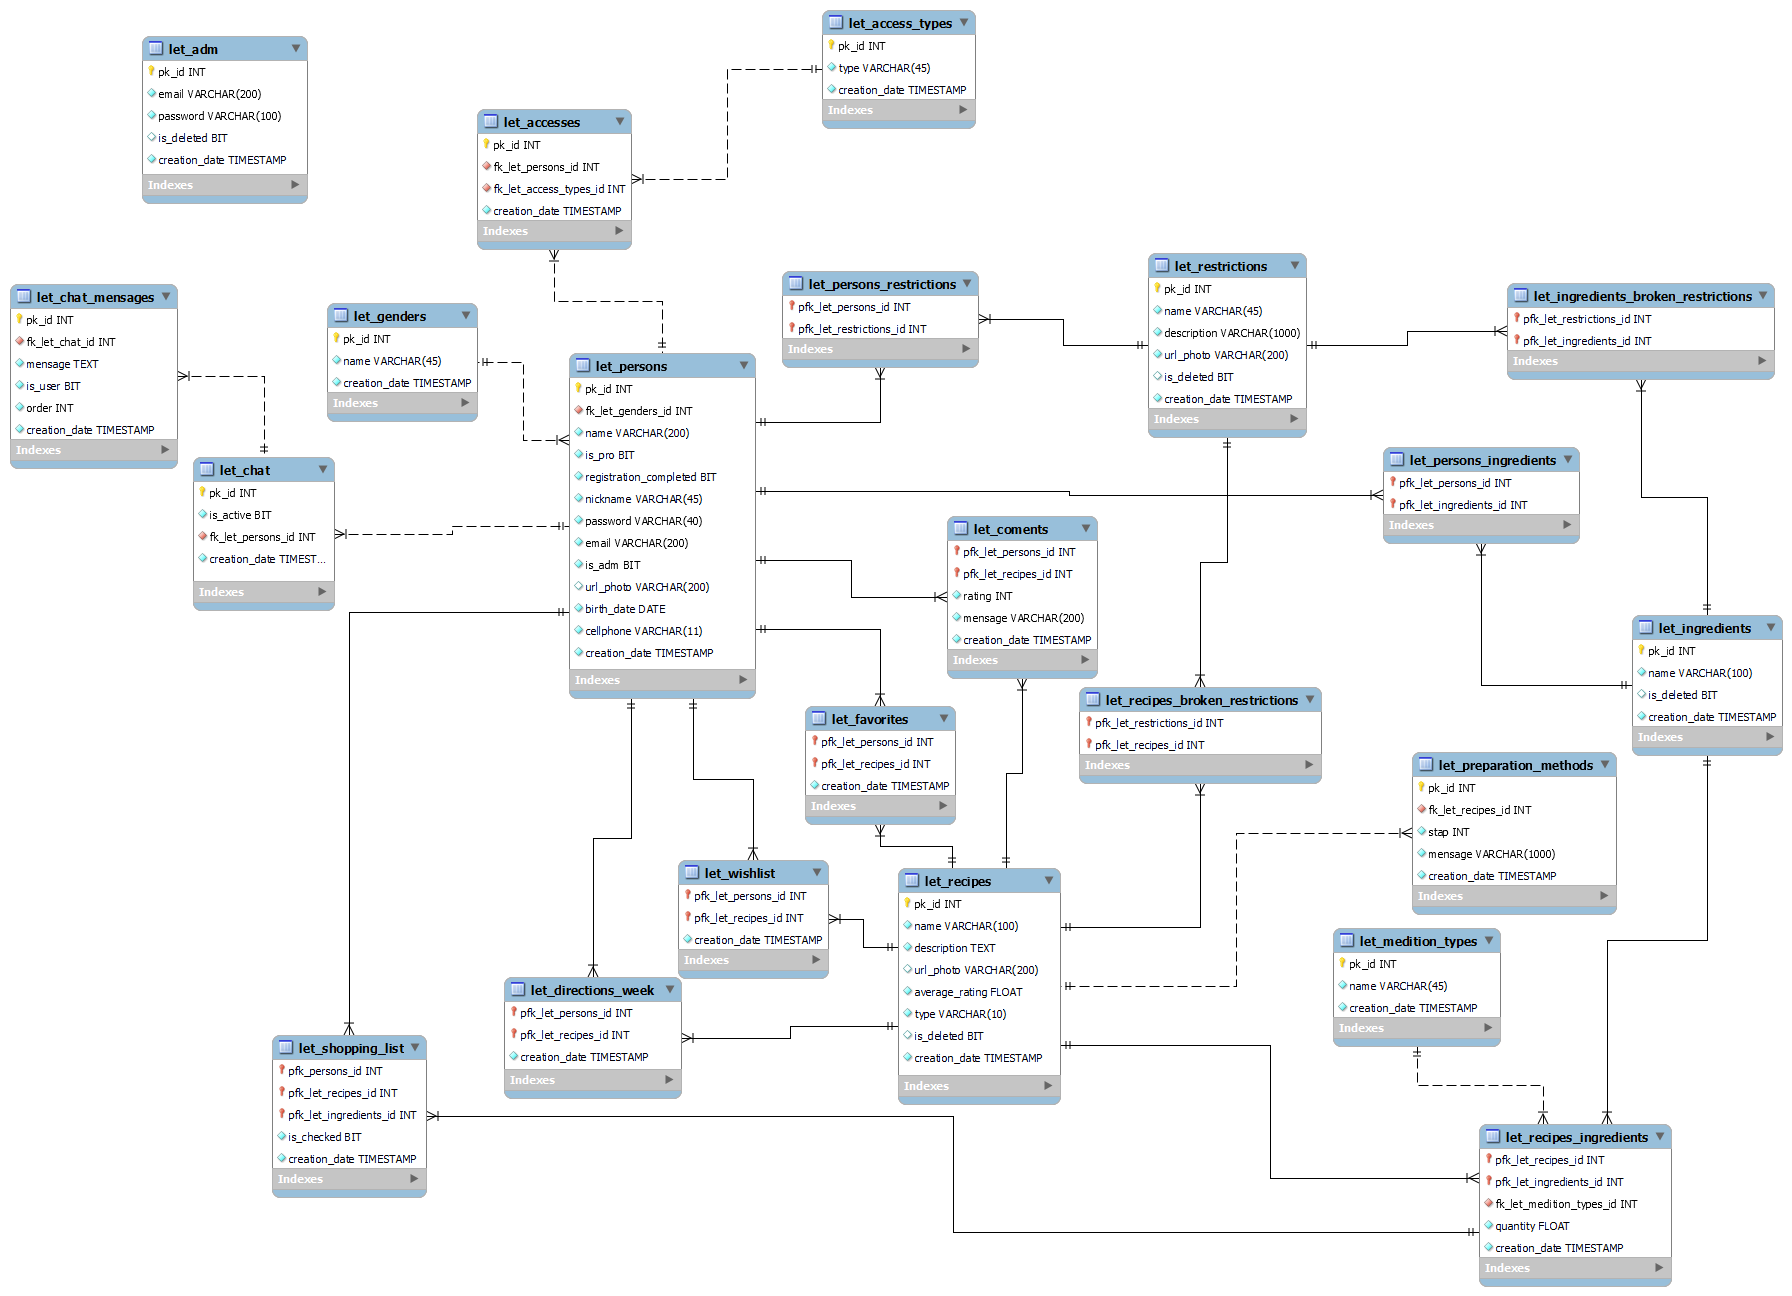
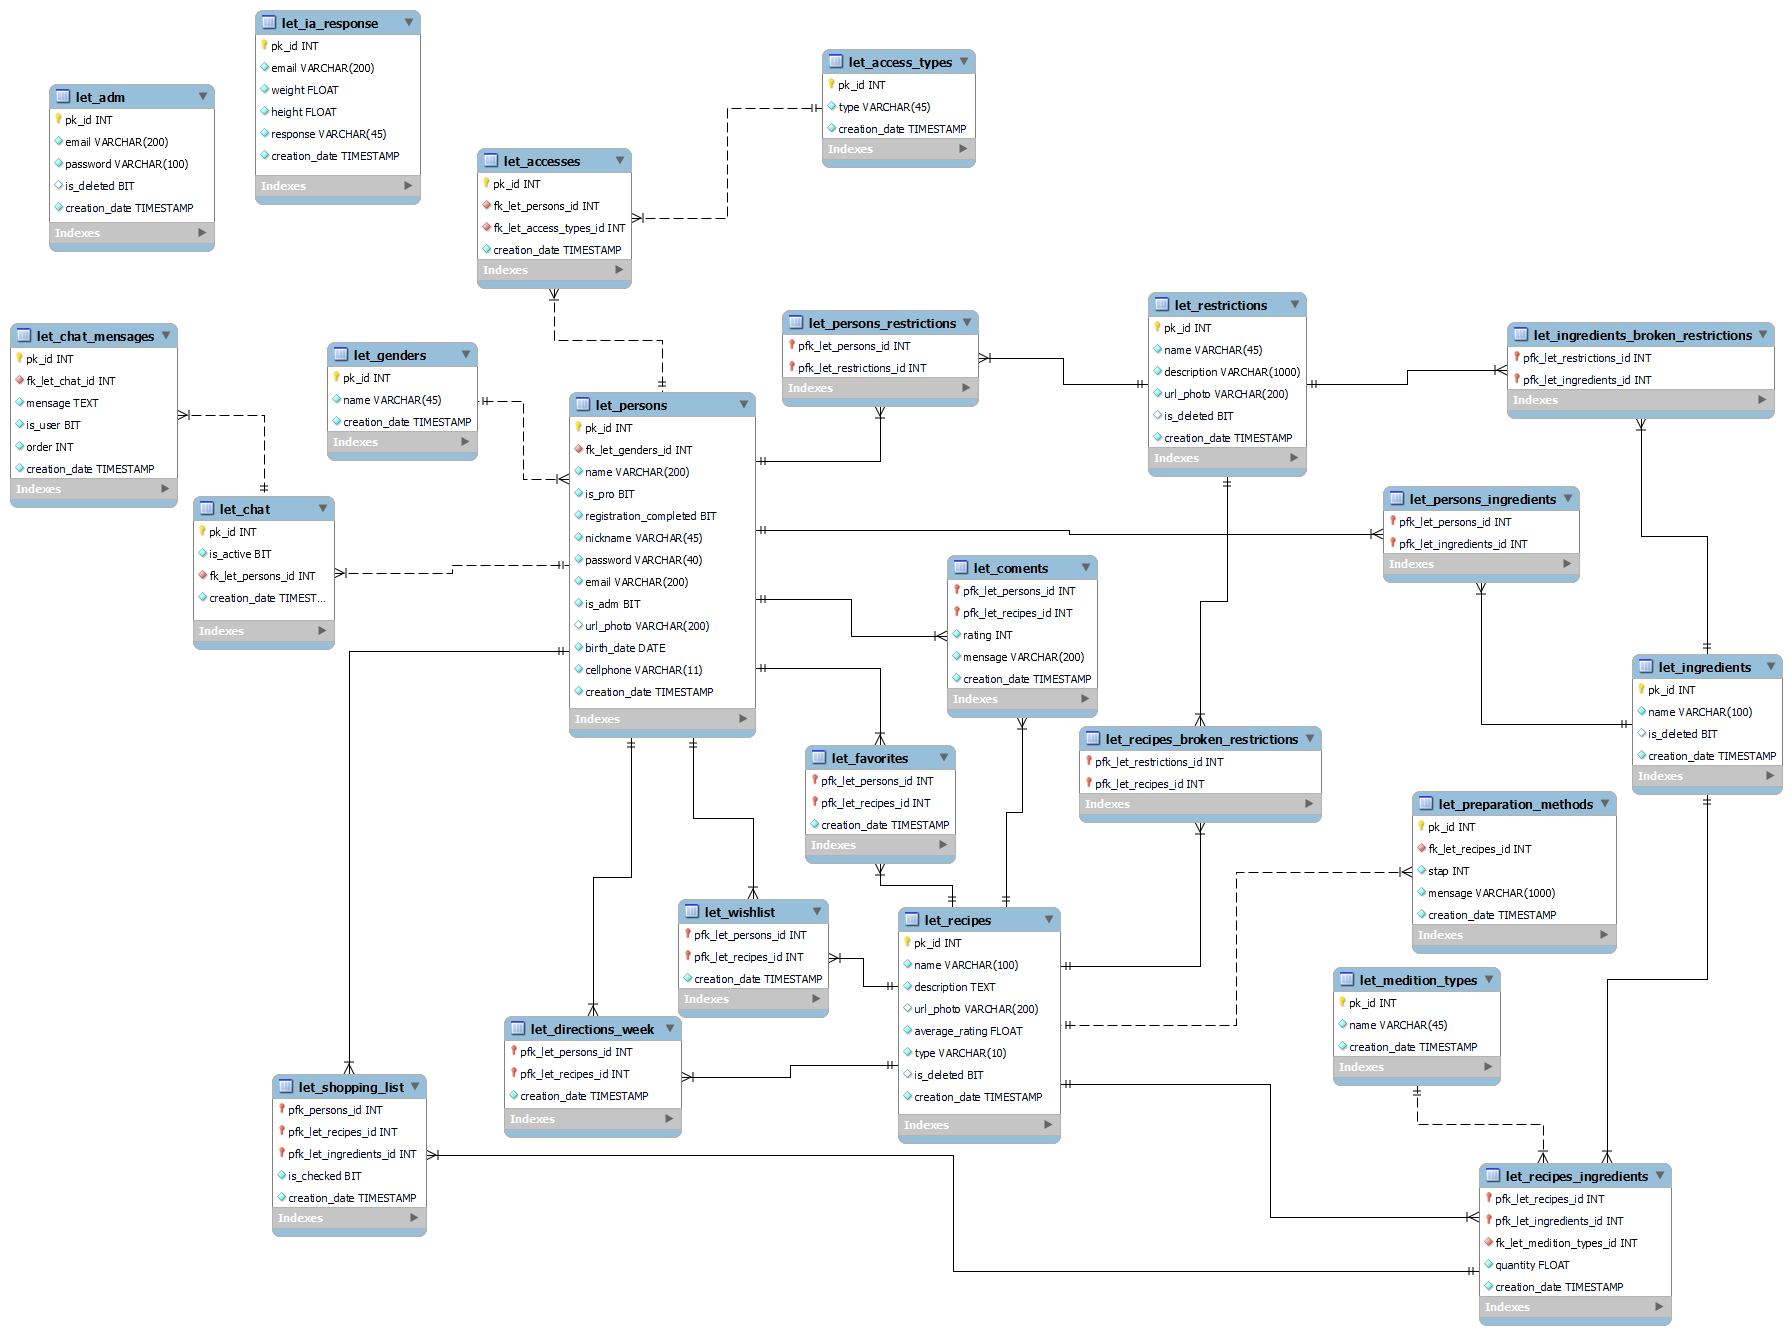
Creating table let_ia_responses

diff --git a/README.md b/README.md
@@ -53,7 +53,7 @@ Para executar este projeto, você precisará instalar as seguintes bibliotecas e
 
 ### Python
 
-- Python 3.8 ou superior
+- Python 3.12 ou superior
 - pandas
 - psycopg2-binary 2.9.9
 - sqlalchemy 2.0.32
@@ -78,6 +78,7 @@ Observação: Não se esqueça de criar os bancos de dados.
 ### Outras Ferramentas
 
 - Git
+- EC2 AWS
 
 ## Autores
 
